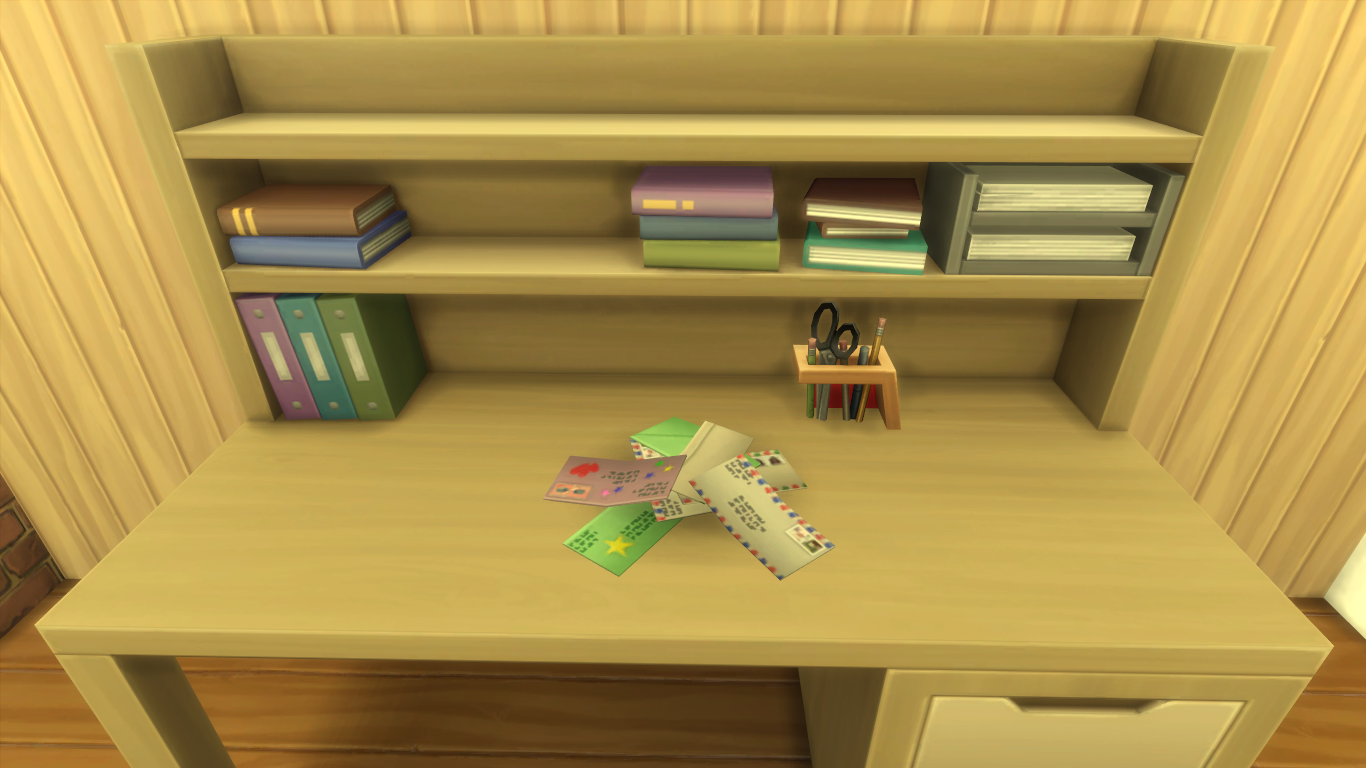
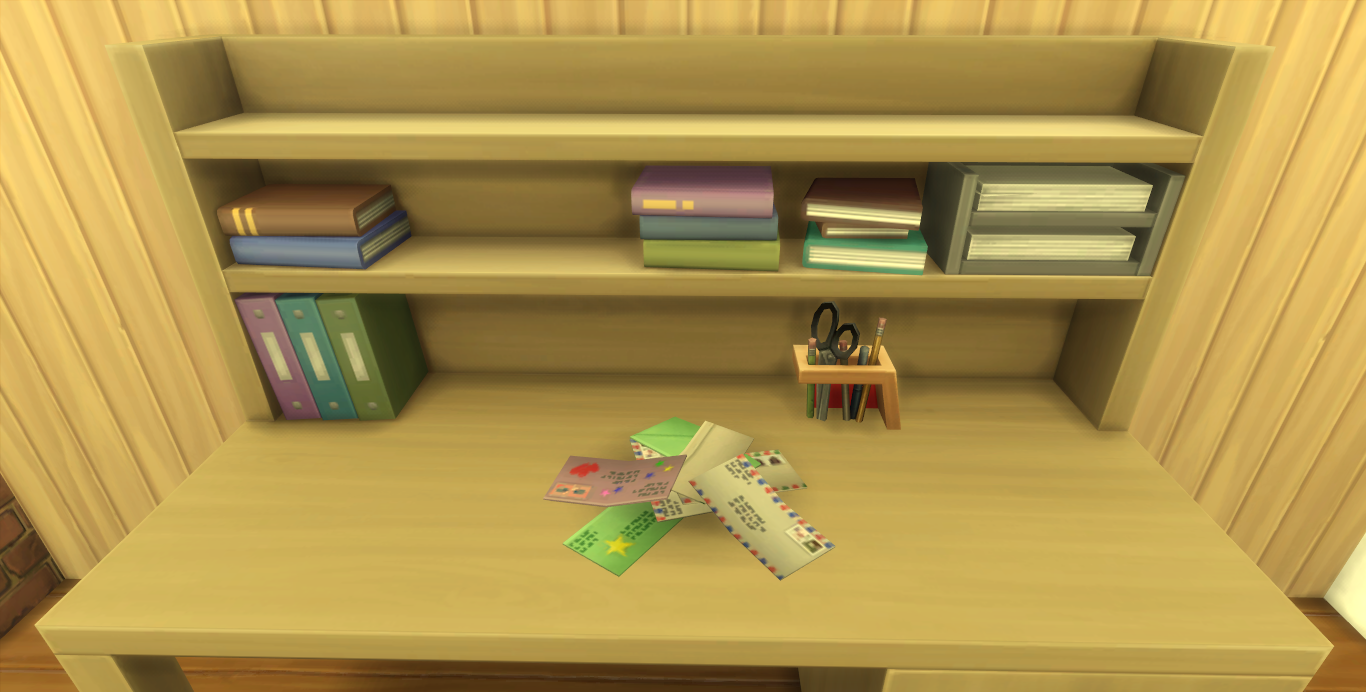
Tweaked sizes

diff --git a/styles.css b/styles.css
@@ -8,24 +8,28 @@
     color: #ffffff;
   }
 
-body,
-html {
-  background-image: url(./images/background.png);
-  background-repeat: no-repeat;
-  background-attachment: fixed;
-  background-size:100%;
-}
+  .bg{
+    width: 1324.5px;
+    height: 619px;
+    position: absolute;
+    object-fit: cover;
+    transform: scale();
+  }
 
 .open {
   opacity: 0;
-  margin-top: 395px;
+  margin-top: 370px;
   margin-left: 510px;
+  position: absolute;
+  transform: scale();
 }
 
 .take {
   opacity: 0;
-  margin-bottom: 123px;
-  margin-left: -100px;
+  margin-top: 247px;
+  margin-left: 728px;
+  position: absolute;
+  transform: scale();
 }
 
 .open:hover,

diff --git a/index.html b/index.html
@@ -3,12 +3,13 @@
 <head>
     <meta charset="UTF-8">
     <meta http-equiv="X-UA-Compatible" content="IE=edge">
-    <meta name="viewport" content="width=device-width, initial-scale=1.0">
+    <meta name="viewport" content="width=device-width, initial-scale=1.0, maximum-scale=1.0, user-scalable=0">
     <script src="script.js" type="module" defer></script>
     <title>Graduation</title>
     <link rel="stylesheet" href="styles.css" />
 </head>
 <body>
+    <img src="./images/background.png" class="bg" />
     <img src="./images/Letters.png" class="open" />
     <img src="./images/Pens.png" class="take" />
 </body>
